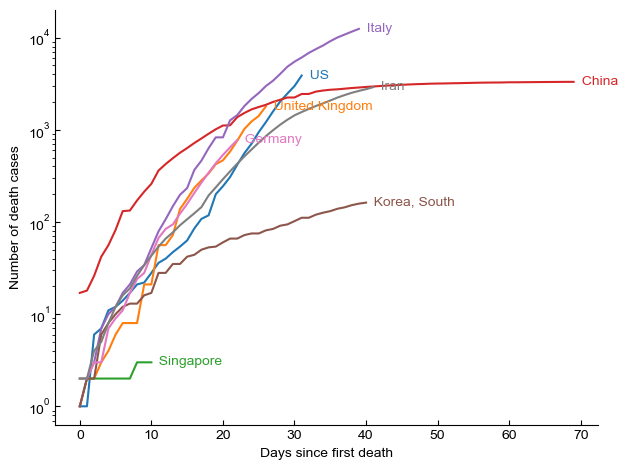
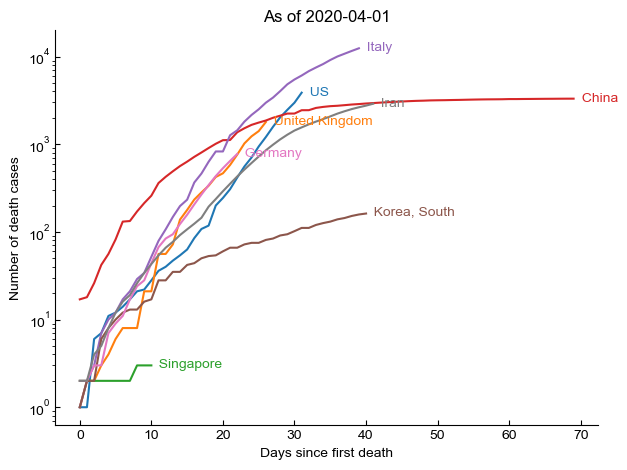
add timestamp to plots

diff --git a/analysis.py b/analysis.py
@@ -384,6 +384,9 @@ def plot_compare_first(data, case_type, countries, path=None):
                         for x in ax.get_yticks().tolist()])
     ax.set_yscale('log')
 
+    # title
+    ax.set_title('As of ' + datetime.today().strftime('%Y-%m-%d'))
+
     sns.despine(ax=ax)
 
     fig.tight_layout()
